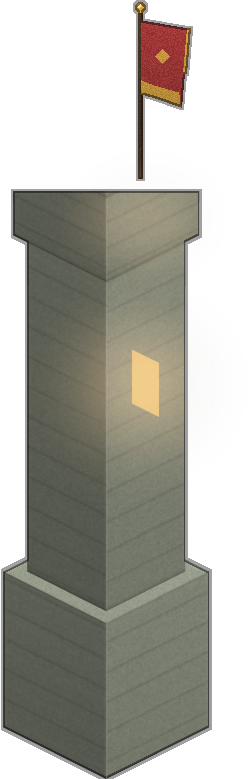
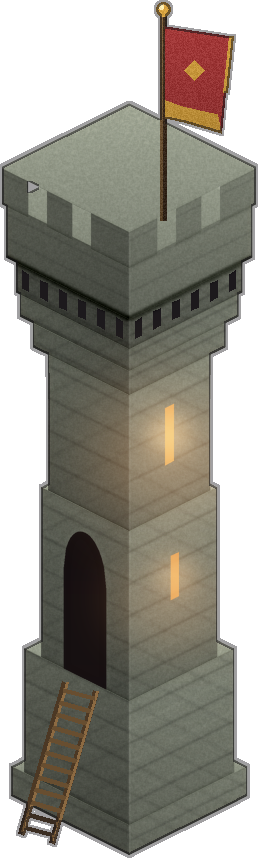
Wire seam-blended terrain sheets and the rebuilt smithy/tower
- floor_sources prefers assets/flare/raw/tiles/emberfall_ground.png (opaque
  core, edges blended toward the row mean: the original diamonds carried a
  hard 1px alpha edge that composited to a translucent line around every
  cell) and falls back to the Flare sheet. Lattice metric 1.52 -> 1.40.
- flare_buildings LAYERS points blacksmith at the rebuilt v2 smithy; the
  duplicate procedural chimney/anvil and tower battlement overlays are
  removed because the v2 sprites carry them.
- ships all three sheets, both rebuilt sprites, their 48px and old-vs-new
  comparison sheets, and the seam test patches.

diff --git a/emberfall/src/flare_buildings.py b/emberfall/src/flare_buildings.py
@@ -14,7 +14,7 @@ LAYERS = {
     "farm": [("human_house_farm", 1.0, 0.0, 0.0, None)],
     "barracks": [("human_barracks", 1.0, 0.0, 0.0, None)],
     "mill": [("human_workshop_lumber", 1.0, 0.0, 0.0, None)],
-    "blacksmith": [("human_house_farm", 0.70, 0.0, 0.04, None)],
+    "blacksmith": [("human_blacksmith_smithy", 1.0, 0.0, 0.0, None)],
     "sanctum": [("human_temple_altar", 1.0, 0.0, 0.0, None)],
     "tower": [("human_guard_tower", 1.0, 0.0, 0.0, None)],
     "altar": [("human_temple_altar", 0.82, 0.0, 0.0, None)],
@@ -138,19 +138,9 @@ class BuildingArt:
             for i in range(n):
                 pygame.draw.circle(s, col, (int(x + (i % 4) * 9 - 12), int(y - (i // 2) * 8)), 1 + (i % 2))
         if bid == "blacksmith":
-            # stone forge chimney beside the house
-            chx = cx + tw * 0.24
-            pygame.draw.rect(s, (76, 72, 66), (int(chx - 7), int(base_y - th * 0.78), 14, int(th * 0.42)))
-            pygame.draw.rect(s, (112, 106, 96), (int(chx - 9), int(base_y - th * 0.80), 18, 7))
-            for i in range(3):
-                pygame.draw.circle(s, (90, 84, 80, 90), (int(chx + i * 7), int(base_y - th * 0.84 - i * 11)), 5 + i * 2)
-            glow(cx + tw * 0.16, base_y - th * 0.16, 30, (130, 60, 24), 80)
-            flame(cx + tw * 0.17, base_y - th * 0.12, 26)
-            # anvil at the front
-            ax = cx - tw * 0.26
-            pygame.draw.rect(s, (36, 34, 32), (int(ax), int(base_y - 12), 20, 8))
-            pygame.draw.rect(s, (52, 50, 46), (int(ax - 3), int(base_y - 16), 26, 5))
-            pygame.draw.polygon(s, (30, 28, 26), [(int(ax + 2), int(base_y - 12)), (int(ax + 10), int(base_y - 12)), (int(ax + 10), int(base_y - 6)), (int(ax + 2), int(base_y - 6))])
+            # v2 smithy sprite carries its own chimney, forge glow and anvil:
+            # the old procedural overlays would duplicate them
+            pass
         elif bid == "altar":
             glow(cx, base_y - th * 0.45, 34, (150, 100, 36), 85)
             flame(cx, base_y - th * 0.30, 38, (255, 190, 90))
@@ -177,11 +167,8 @@ class BuildingArt:
             glow(cx, base_y - th * 0.40, 38, (90, 44, 120), 75)
             motes(cx, base_y - th * 0.50, 8, (190, 150, 240))
         elif bid == "tower":
-            flame(cx + tw * 0.26, base_y - th * 0.68, 16)
-            # battlements around the cap
-            ty = base_y - th * 0.88
-            for i in range(4):
-                pygame.draw.rect(s, (118, 112, 100), (int(cx - tw * 0.20 + i * tw * 0.11), int(ty), max(4, int(tw * 0.07)), 9))
+            # v2 guard tower has machicolation, crenellations and an ember slit
+            pass
         elif bid == "keep":
             glow(cx - tw * 0.30, base_y - th * 0.30, 34, (100, 60, 20), 60)
         elif bid == "farm":

diff --git a/emberfall/src/flare_terrain.py b/emberfall/src/flare_terrain.py
@@ -15,7 +15,20 @@ def _load(name):
 
 
 def floor_sources():
-    """64x32 diamond crops: 16 grass + 16 cobble."""
+    """64x32 diamond crops: grass (+dry variant) and cobble/stone.
+
+    Prefers the seam-blended Emberfall sheet (opaque core, edges blended
+    toward the row mean): the original Flare diamonds carry a hard 1 px alpha
+    edge, and where two tiles abut that edge composites to a translucent line
+    around every cell — the dark lattice players report.
+    """
+    sheet = _load("emberfall_ground.png")
+    if sheet is not None and sheet.get_size() == (1024, 256):
+        def row(r: int):
+            return [sheet.subsurface(pygame.Rect(c * 64, r * 32, 64, 32)).copy()
+                    for c in range(16)]
+        # rows: 0 grass, 1 grass_dry, 6 stone (biome tinting happens in art)
+        return {"grass": row(0) + row(1), "stone": row(6)}
     sheet = _load("grassland.png")
     out = {"grass": [], "stone": []}
     if sheet is None:

diff --git a/design/notes/flare-buildings.md b/design/notes/flare-buildings.md
@@ -10,8 +10,8 @@ vertex of the building's ground footprint diamond.
 | human_house_farm | `human_house_farm.png` | 477x431 | (238, 431) | structures#7@g(2,0) + structures#4@g(0,1) + structures#5@g(1,1) + structures#6@g(2,1) | 2x2 | exact replica of the log cabin Flare places in black_oak_city/lochport |
 | human_barracks | `human_barracks.png` | 429x302 | (214, 302) | grassland#59@g(0,1) + grassland#56@g(1,1) + grassland#80@g(0,2) + grassland#61@g(2,1) | 2x2 | two canvas/fur field tents + barrel + supply crate = encampment |
 | human_workshop_lumber | `human_workshop_lumber.png` | 352x221 | (176, 221) | grassland#84@g(0,2) + grassland#85@g(1,2) + grassland#121@g(1,1) + grassland#120@g(0,1) + grassland#92@g(2,2) | 3x2 | log piles + axe-in-stump + cutting stump + rail fence (lumber yard) |
-| human_blacksmith_smithy | `human_blacksmith_smithy.png` | 429x243 | (214, 243) | grassland#86@g(0,1) + grassland#87@g(1,1) + grassland#61@g(2,1) + grassland#80@g(0,2) | 2x2 | forge fire + anvil on stump + crate + barrel (work yard, not a shell) |
-| human_guard_tower | `human_guard_tower.png` | 188x594 | (94, 594) | ruins#177@g(1,1) + ruins#177@g(1,1) + ruins#199@g(1,1) | 2x2 | stacked stone column blocks + tapered crenellated cap (ruins.png) |
+| human_blacksmith_smithy | `human_blacksmith_smithy.png` | 409x544 | (204, 544) | painted stone prism + shingle lean-to (ruins/structures/grassland atlas textures) + grassland#87 anvil + grassland#81 quench tub + grassland#80 crate | 2x2 (draw_width 136px) | ONE mass: lean-to roof + stone chimney/smoke + ember forge arch, anvil on stump under the eave, ore/coal stacked against the wall |
+| human_guard_tower | `human_guard_tower.png` | 258x858 | (129, 858) | procedural masonry (ruins atlas textures): battered plinth + stepped shaft + machicolated crown + timber ladder + pennant | 2x2 (draw_width 104px) | tall thin tower: battered base, ember arrow slits, raised door + ladder, wide machicolated crenellated cap, crimson/gold pennant |
 | human_temple_altar | `human_temple_altar.png` | 478x371 | (239, 371) | ruins#177@g(0,1) + grassland_2x2#0@g(1,1) + ruins#128@g(1,1) + ruins#177@g(2,1) | 3x3 | carved stone rune circle + stepped monument + flanking columns |
 | human_keep | `human_keep.png` | 476x379 | (238, 379) | ruins#177@g(2,0) + ruins#177@g(0,1) + ruins#177@g(1,1) + ruins#177@g(2,1) + ruins#199@g(1,1) | 3x3 | four stone column blocks in the Flare house footprint + capped central tower |
 | undead_ruined_tower | `undead_ruined_tower.png` | 888x1055 | (444, 1055) | tiled/tilesheets/grassland_rottentower.png [0,0,1074,1074] | 3x3 | Flare 'rottentower': ivy-covered stone tower, rotted plank roof |
